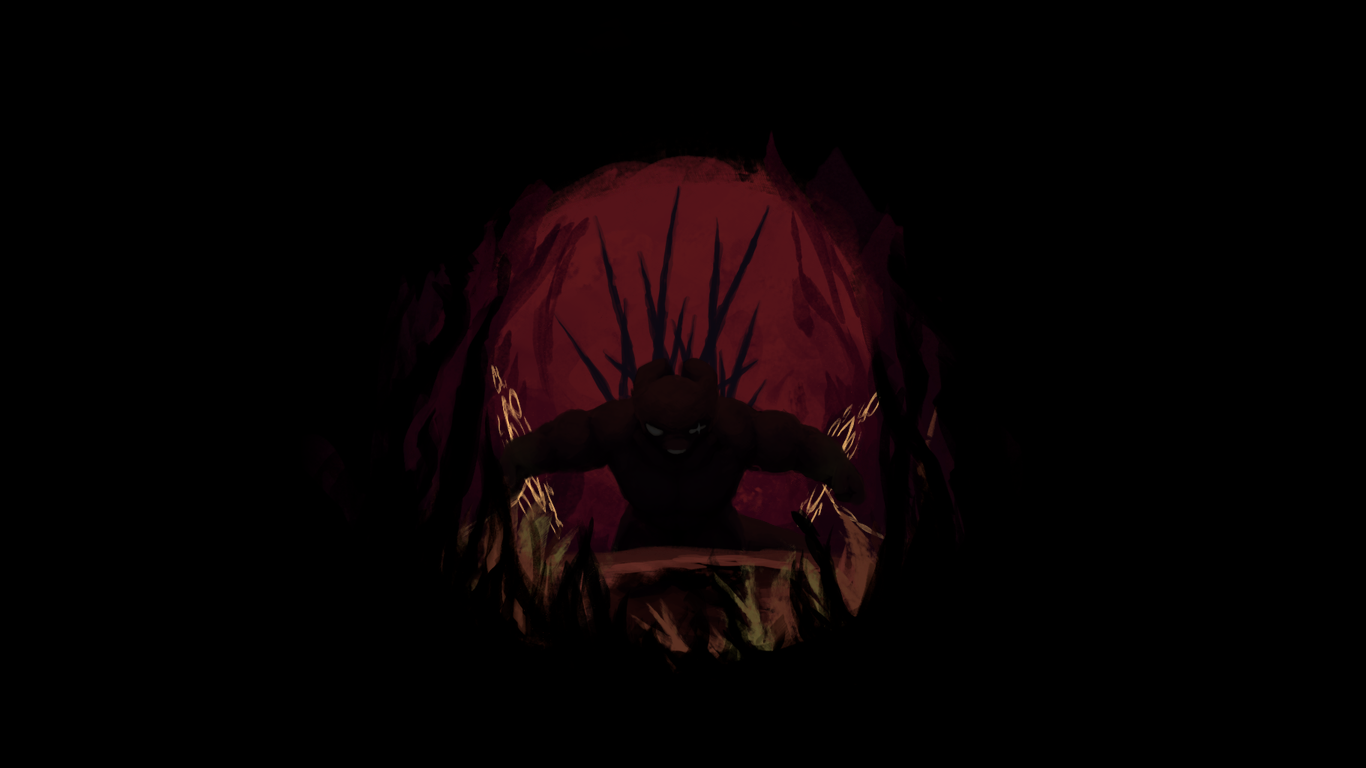
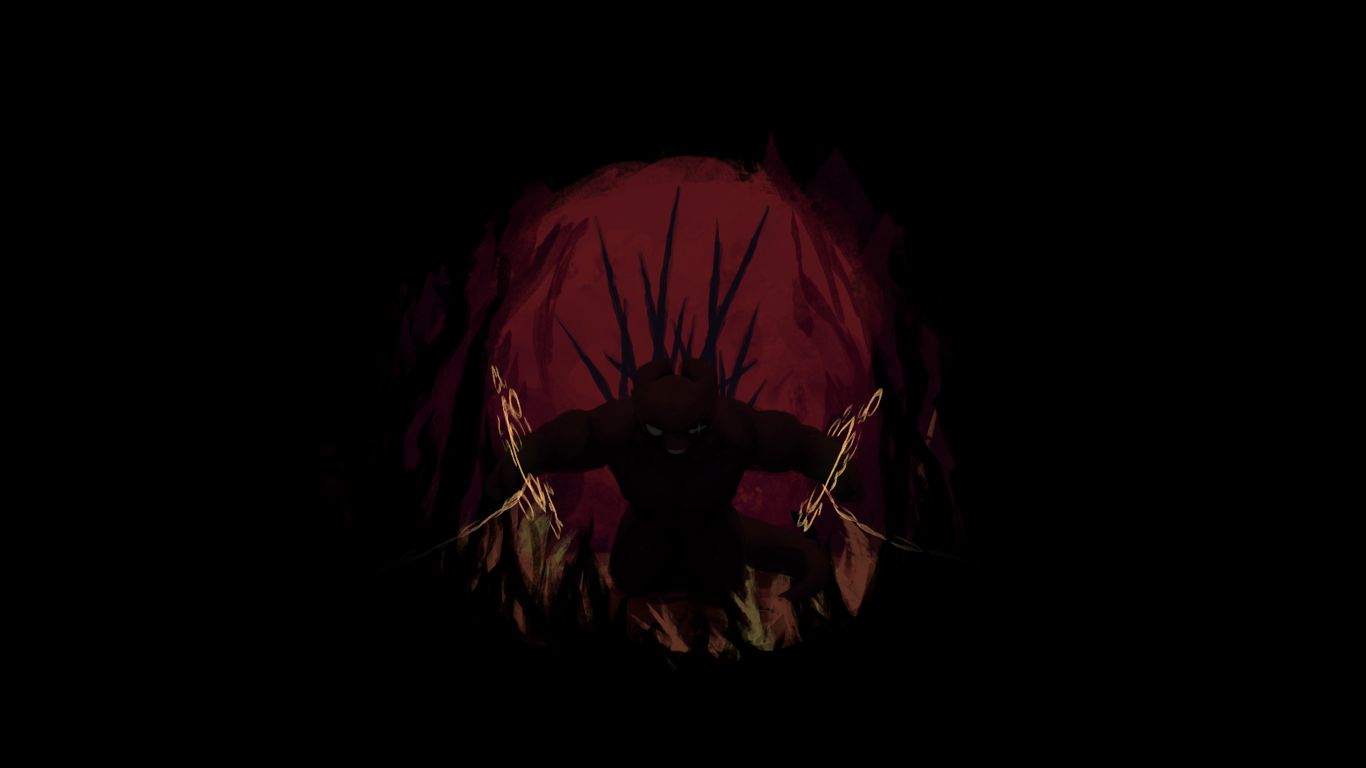
Fix Primal Artificer layer order: chains in front, ground behind
Reported from live play with a reference image: the yellow chains were drawn behind
Artificer and the ground/grass ring cut across its legs.

The trap is that two component files sit in slots their names contradict --
"smoke - 2" is actually the chains and "fg - 0" is actually the ground. The fix
swaps which vanilla slot each lands in, so the ground takes Smoke-2 (behind
Slugcat-1) and the chains take Fg-0 (in front), and likewise for the alt-ending
scene's -3/-0 slots. Commented in FileMap so the mapping isn't "tidied" back into
the bug later.

Remapping alone was not enough, which is why the statistics/continue page still
showed it: flat, dark flat, end bkg and end a are pre-composited stacks of the five
component layers, with the old order baked in. That decomposition was verified
exactly rather than assumed -- each shipped plate matched a stack of its components
with 0.00% of pixels differing beyond rounding -- so the new
build-artificer-plates.py regenerates all four losslessly in the corrected order.

Verified by compositing the select and ending scenes in vanilla slot order and
comparing against the user's reference image: legs and tail now fully visible,
chains drawn over the arms. Deployed, 25/25 scene files byte-identical.

diff --git a/scripts/build-artificer-plates.py b/scripts/build-artificer-plates.py
@@ -1,0 +1,75 @@
+#!/usr/bin/env python3
+"""Rebuild the Primal Artificer scene's flattened plates from its five component layers.
+
+Unlike the Spearmaster art there is no separate art-source/ tree for Artificer -- the component
+layers ARE the source, and several of the shipped files are just flattened stacks of them. That was
+verified exactly, not assumed: before this script existed, each shipped plate matched a stack of
+components to within rounding (max channel diff <= 16 on 0.00% of pixels).
+
+    flat       = background-5 + vines-4 + ground + slugcat-1 + chains, over opaque black
+    dark flat  = the same with the dark (locked) slugcat
+    end bkg    = background-5 + vines-4
+    end a      = ground + slugcat-1 + chains
+
+WHAT THIS FIXES: the plates were previously stacked with the chains behind the slugcat and the
+ground in front of it, so the ground cut across Artificer's legs and the chains were hidden behind
+its arms. The correct read, per the reference artwork, is ground BEHIND the character and chains IN
+FRONT of it. The ORDER list below is the single place that is expressed for the flattened plates;
+the live (non-flattened) select and alt-ending scenes get the same ordering by which component file
+each vanilla layer slot maps to, in PrimalArtificerScene.cs's FileMap.
+
+Component files keep their original vanilla-derived names even though two of them no longer sit in
+the slot their name suggests -- "smoke - 2" is the chains and "fg - 0" is the ground. They are just
+opaque keys; FileMap is where the mapping is stated.
+"""
+
+from pathlib import Path
+
+from PIL import Image
+
+ROOT = Path(__file__).resolve().parent.parent
+DEST = ROOT / "src/Primal/scenes/primal artificer"
+PREFIX = "primal artificer "
+SCREEN = (1366, 768)
+
+BACKGROUND = "background - 5"
+SPIKES = "vines - 4"
+GROUND = "fg - 0"       # despite the name: the ground/grass ring, belongs BEHIND the character
+SLUGCAT = "slugcat - 1"
+SLUGCAT_DARK = "slugcat - 1 - dark"
+CHAINS = "smoke - 2"    # despite the name: the yellow chains, belong IN FRONT of the character
+
+# Back to front.
+ORDER = [BACKGROUND, SPIKES, GROUND, SLUGCAT, CHAINS]
+
+
+def load(name):
+    return Image.open(DEST / f"{PREFIX}{name}.png").convert("RGBA")
+
+
+def stack(names, opaque):
+    out = Image.new("RGBA", SCREEN, (0, 0, 0, 255) if opaque else (0, 0, 0, 0))
+    for name in names:
+        out.alpha_composite(load(name))
+    return out
+
+
+def main():
+    dark_order = [SLUGCAT_DARK if n == SLUGCAT else n for n in ORDER]
+    plates = {
+        # Flat-mode assets are fully opaque 1366x768 composites, matching every stock "- Flat".
+        "flat": stack(ORDER, opaque=True),
+        "dark flat": stack(dark_order, opaque=True),
+        # Depth plates stay alpha-cut so the menu's rain shows through -- see
+        # unmatte-black-backdrop.py for why that matters.
+        "end bkg": stack([BACKGROUND, SPIKES], opaque=False),
+        "end a": stack([GROUND, SLUGCAT, CHAINS], opaque=False),
+    }
+    for name, im in plates.items():
+        path = DEST / f"{PREFIX}{name}.png"
+        im.save(path, optimize=True)
+        print(f"{path.name:<45} {im.size[0]}x{im.size[1]}")
+
+
+if __name__ == "__main__":
+    main()

diff --git a/src/Primal/Gimmicks/PrimalArtificerScene.cs b/src/Primal/Gimmicks/PrimalArtificerScene.cs
@@ -65,13 +65,20 @@ namespace Primal.Gimmicks
         // vanilla layer name -> our file name (no extension). Keys must match vanilla exactly.
         internal static readonly Dictionary<string, string> FileMap = new Dictionary<string, string>
         {
+            // LAYER ORDER (2026-11-15 fix). Two of our files sit in a slot their vanilla-derived
+            // name does not suggest, deliberately: "smoke - 2" is actually the yellow CHAINS and
+            // "fg - 0" is actually the GROUND/grass ring. Vanilla draws these slots back to front
+            // 5,4,3,2,1,0, and the reference artwork wants the ground BEHIND the character and the
+            // chains IN FRONT of it -- so the ground takes the Smoke-2 slot (behind Slugcat-1) and
+            // the chains take the Fg-0 slot (in front). Shipping them the other way round is what
+            // made the ground cut across Artificer's legs and hid the chains behind its arms.
             { "Artificer Background - 5",        Prefix + "background - 5" },
             { "Artificer Vines - 4",             Prefix + "vines - 4" },
             { "Artificer MidBg - 3",             Prefix + "midbg - 3" },
-            { "Artificer Smoke - 2",             Prefix + "smoke - 2" },
+            { "Artificer Smoke - 2",             Prefix + "fg - 0" },             // ground, behind
             { "Artificer Slugcat - 1",           Prefix + "slugcat - 1" },
             { "Artificer Slugcat - 1 - Dark",    Prefix + "slugcat - 1 - dark" },
-            { "Artificer Fg - 0",                Prefix + "fg - 0" },
+            { "Artificer Fg - 0",                Prefix + "smoke - 2" },          // chains, in front
             { "Slugcat - Artificer - Flat",      Prefix + "flat" },
             { "Slugcat - Artificer Dark - Flat", Prefix + "dark flat" },
 
@@ -94,10 +101,10 @@ namespace Primal.Gimmicks
             // 6 layers drawn back (5) to front (0). "Primal" order: back plate, spears, chains, character, (unused), foreground.
             { "Slugcat End_B - Artificer - 5",         Prefix + "background - 5" },
             { "Slugcat End_B - Artificer - 4",         Prefix + "vines - 4" },
-            { "Slugcat End_B - Artificer - 3",         Prefix + "smoke - 2" },
+            { "Slugcat End_B - Artificer - 3",         Prefix + "fg - 0" },      // ground, behind
             { "Slugcat End_B - Artificer - 2",         Prefix + "slugcat - 1" },
             { "Slugcat End_B - Artificer - 1",         Prefix + "midbg - 3" },   // empty layer
-            { "Slugcat End_B - Artificer - 0",         Prefix + "fg - 0" },
+            { "Slugcat End_B - Artificer - 0",         Prefix + "smoke - 2" },   // chains, in front
             { "Slugcat End_B - Artificer - Flat",      Prefix + "flat" },
         };
 

diff --git a/src/Primal/AI_CONTEXT.md b/src/Primal/AI_CONTEXT.md
@@ -67,6 +67,28 @@ character names.
 Housekeeping: the claude.ai project's copy of this file (`claude/AI_CONTEXT.md`) is an old
 snapshot; this repo copy is authoritative.
 
+## Primal Artificer layer order fix (2026-11-15)
+
+Reported from live play with a reference image: the yellow chains were drawn behind Artificer and
+the ground/grass ring cut across its legs. Both wrong — the chains belong in front, the ground
+behind.
+
+- **The trap: two component files sit in slots their names contradict.** `primal artificer
+  smoke - 2.png` is actually the yellow CHAINS and `primal artificer fg - 0.png` is actually the
+  GROUND. The names come from whichever vanilla slot they originally occupied, and the fix moves
+  them: the ground now takes the `Smoke - 2` slot (behind `Slugcat - 1`) and the chains take the
+  `Fg - 0` slot (in front). Same swap applied to the alt-ending scene's `- 3`/`- 0` slots. Don't
+  "tidy" the FileMap by matching file names back to slot names — that re-introduces this bug.
+- **Half the art is flattened, so remapping alone was not enough.** `flat`, `dark flat`, `end bkg`
+  and `end a` are pre-composited stacks of the five component layers, which is why the *ending*
+  scene (what the statistics/continue page shows) still had the old order baked in. Confirmed
+  exactly rather than assumed: each shipped plate matched a stack of components with 0.00% of
+  pixels differing by more than rounding. `scripts/build-artificer-plates.py` now regenerates all
+  four from the components in the corrected order and is the authority on that stack.
+- Artificer has **no `art-source/` tree** — the component layer PNGs *are* its source. That is why
+  it needs this plate-rebuild script plus `unmatte-black-backdrop.py`, where Spearmaster just
+  re-runs its own build script.
+
 ## Primal Spearmaster portrait scene (2026-11-14)
 
 Second character to get custom select-screen art, built to the `PrimalArtificerScene.cs` pattern at
